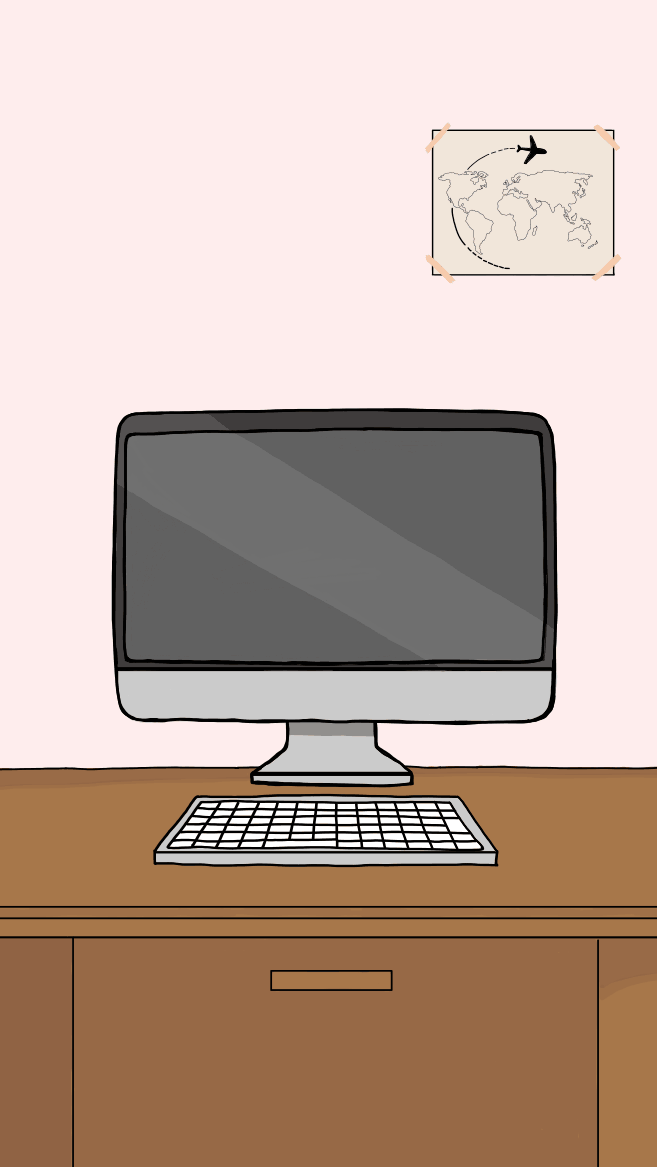
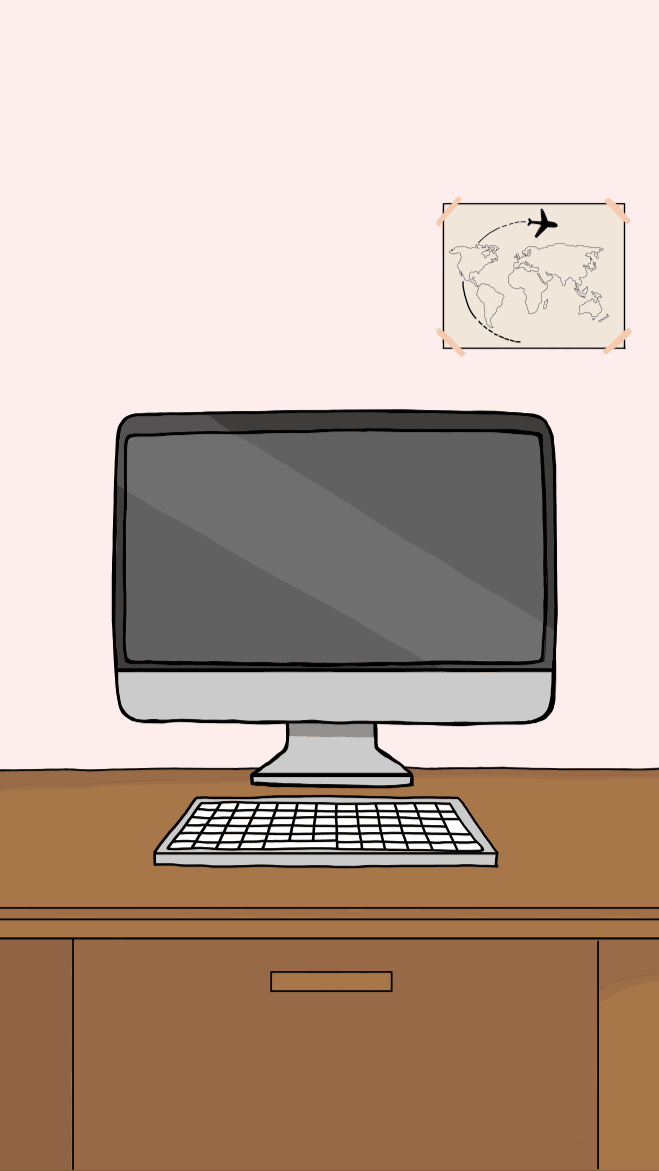
mobile fixes

diff --git a/style.css b/style.css
@@ -534,14 +534,14 @@ body {
 
     .coffee-cup {
         width: 20%;
-        left: 14%;
-        top: 65%;
+        left: 5%;
+        top: 60%;
     }
 
     .coffee-spill {
         width: 58%;
-        left: 18%;
-        top: 64%;
+        left: 10%;
+        top: 60%;
     }
 
     .scroll-link {
